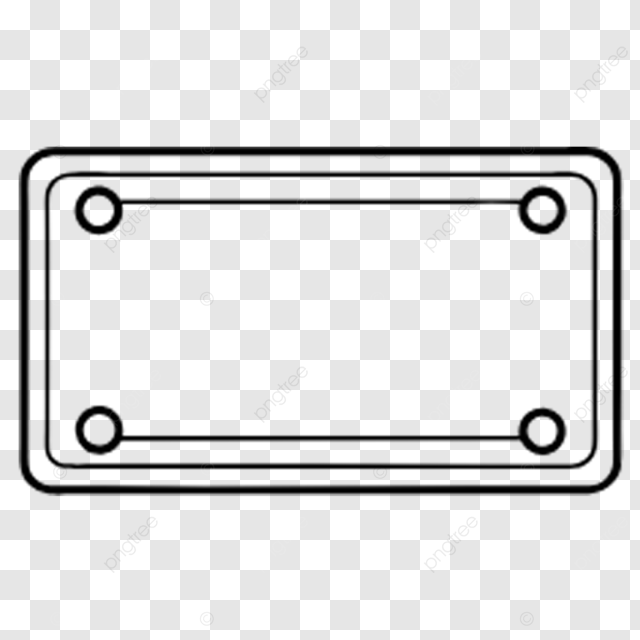
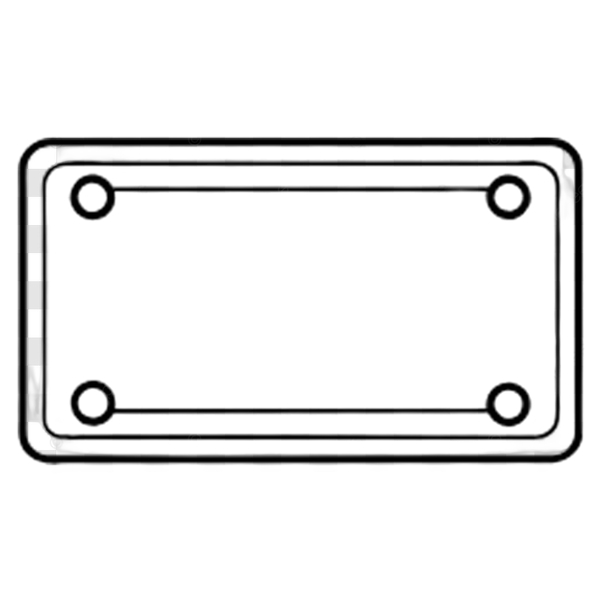
remove images background

diff --git a/src/Screens/CaptureWithSilhouetteScreen.jsx b/src/Screens/CaptureWithSilhouetteScreen.jsx
@@ -208,7 +208,8 @@ export default function CaptureWithSilhouetteScreen({ navigation, route }) {
 
         {/* Camera + Silhouette */}
         <View style={tw`flex-1 px-4 pb-4`}>
-          <View style={tw`flex-1 rounded-3xl overflow-hidden bg-gray-900`}>
+          <View style={tw`flex-1 rounded-3xl overflow-hidden bg-black`}>
+            {/* CAMERA */}
             <Camera
               ref={cameraRef}
               style={tw`flex-1`}
@@ -217,14 +218,14 @@ export default function CaptureWithSilhouetteScreen({ navigation, route }) {
               photo={true}
             />
 
-            {/* Silhouette Overlay */}
+            {/* SILHOUETTE OVERLAY */}
             <Image
               source={step.silhouette}
               style={tw`absolute inset-0 w-full h-full opacity-60`}
               resizeMode="contain"
             />
 
-            {/* Uploading Overlay */}
+            {/* UPLOADING OVERLAY */}
             {uploading && (
               <View
                 style={tw`absolute inset-0 bg-black bg-opacity-60 items-center justify-center`}
@@ -236,7 +237,6 @@ export default function CaptureWithSilhouetteScreen({ navigation, route }) {
               </View>
             )}
           </View>
-
           <Text style={tw`text-gray-300 text-center mt-4`}>
             Align the vehicle with the silhouette and capture a clear image.
           </Text>

diff --git a/utils/InspectionFlowConfig.js b/utils/InspectionFlowConfig.js
@@ -7,7 +7,7 @@ export const INSPECTION_FLOW = [
   {
     key: "LHFImage",
     title: "LHF Image",
-    silhouette: require("../assets/lhf.jpg"),
+    silhouette: require("../assets/lhf.png"),
   },
   {
     key: "leftSideImage",
@@ -27,7 +27,7 @@ export const INSPECTION_FLOW = [
   {
     key: "RHRImage",
     title: "RHR Image",
-    silhouette: require("../assets/rhr.jpg"),
+    silhouette: require("../assets/rhrr.png"),
   },
   {
     key: "RightSideImage",
@@ -37,7 +37,7 @@ export const INSPECTION_FLOW = [
   {
     key: "RHFImage",
     title: "RHF Image",
-    silhouette: require("../assets/rhf.jpg"),
+    silhouette: require("../assets/rhf.png"),
   },
   {
     key: "RoofImage",
@@ -57,7 +57,7 @@ export const INSPECTION_FLOW = [
   {
     key: "DriversSeatImage",
     title: "Drivers Seat Image",
-    silhouette: require("../assets/lhf.jpg"),
+    silhouette: require("../assets/lhf.png"),
   },
   {
     key: "FrontPassengerSeatImage",
